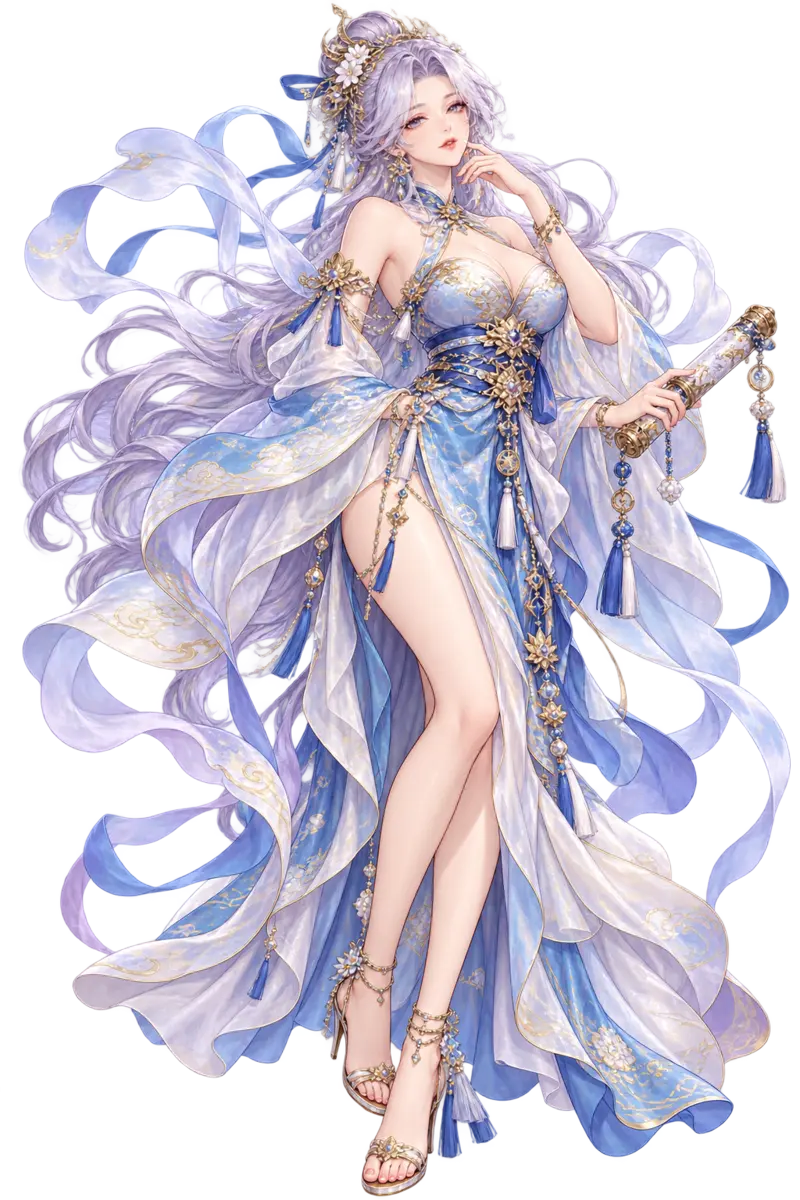
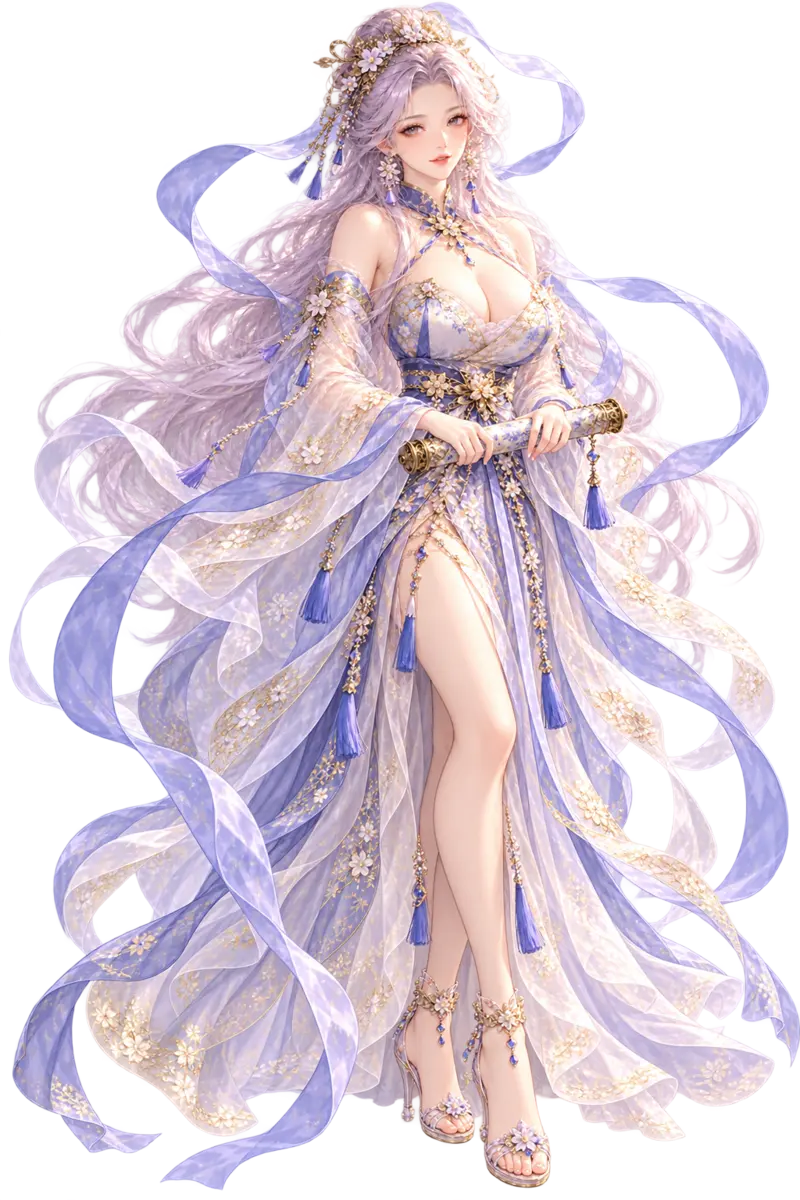
art: 청연·월하 전신을 새 화풍으로(14명 모두 완료), 인연 장면 닫기, README 갱신
- 청연·월하 전신 추가로 식객 14명 전신이 모두 카드와 같은 화풍
- 인연 장면을 보다가 닫을 수 있게(다 본 것으로는 치지 않음)
- 이야기 그림 일부 추가(무영이 붙잡는 장면, 산채 문 앞, 창고 밤샘, 계약서·갈대, 흑운채 산채 배경)
- README의 토벌 설명과 제목을 지금 게임에 맞게

Claude-Session: https://claude.ai/code/session_01AG3ixGBdGKPAAzXvjh6L4F

diff --git a/src/ui/modals.tsx b/src/ui/modals.tsx
@@ -277,7 +277,7 @@ export function SceneViewer({ id, level, onClose }: { id: string; level: number;
       onClose();
     }
   };
-  return <NovelFrame title={`${name} · ${level}. ${scene.title}`} bg={level===3||level===5?ART.cg(id,level):ART.bg('night')} cast={level===3||level===5?[]:[id]} line={{who:line.who==='her'?id:line.who,text:line.text}} onNext={next} />;
+  return <NovelFrame title={`${name} · ${level}. ${scene.title}`} bg={level===3||level===5?ART.cg(id,level):ART.bg('night')} cast={level===3||level===5?[]:[id]} line={{who:line.who==='her'?id:line.who,text:line.text}} onNext={next} onClose={onClose} />;
 }
 
 export function ComboModal({ combo, onClose }: { combo: ComboDef; onClose: () => void }) {

diff --git a/README.md b/README.md
@@ -1,6 +1,6 @@
-# 왕도 — 해랑국 이야기
+# 왕도 — 빚 받으러 왕까지
 
-조선풍 판타지 궁중 권력 드라마 육성 게임. 산골 나무꾼이 도깨비 방망이를 주워 구미호·도깨비·선녀 같은 요괴 아가씨들을 식객으로 거느리고, 권세가 가문과 요괴 세력을 누르며 왕좌에 오른다. 왕이 된 뒤에도 이야기는 부 단위로 계속 이어진다.
+조선풍 판타지 방치형 육성 게임. 떼인 빚을 받아내는 도깨비 방망이를 주운 나무꾼(1인칭 "나")이 구미호·도깨비·우렁각시 같은 요괴 식객들과 함께 권세가의 장부를 뒤집으며 해랑국의 왕좌까지 오른다. 이야기는 부 단위로 이어진다.
 
 **플레이:** https://bn8624.github.io/wangdo/ (휴대폰 브라우저 권장)
 
@@ -9,7 +9,7 @@
 - **일터**: 저잣거리(지략→엽전)·훈련장(무력→엽전)·논밭(정치→곡식)·주막(매력→명성)에 식객을 보내 자동 수입.
 - **정무**: 관아에 올라온 상소를 판결해 보상을 받는다.
 - **인연**: 대화·선물·나들이·연회로 호감도 5단계, 단계마다 개인 이야기와 특별 그림.
-- **토벌**: 식객 셋을 세 판(무력·지략·정치·매력)에 배치해 두 판을 이기면 승리.
+- **토벌**: 식객 셋이 자동으로 싸우는 라운드제 전투. 10라운드 안에 상대를 쓰러뜨리면 해결. 식객마다 고유 기술(강타·기절·방어·치유·약화·격려)이 있고, 추천 편성은 기술 조합까지 계산한다. 대치 구도와 말풍선 대사로 재생되며 2배속·건너뛰기가 있다.
 
 설계: `docs/DESIGN.md` · 설정집: `docs/STORY_BIBLE.md`
 
@@ -25,7 +25,9 @@ npm run simulate   # 플레이 성향별 칭호·소동 진행 시점 표
 
 - 게임 규칙: `src/core/engine.ts` (순수 함수, 시간은 인자로 받음)
 - 밸런스 수치: `src/data/balance.ts`, `src/data/ranks.ts` — 바꾼 뒤 `npm run simulate`와 `npm test`로 확인
-- 내용: 식객 `src/data/yokai.ts`, 소원 `src/data/wishes.ts`, 소동 `src/data/stages.ts`
+- 전투: `src/core/battle.ts`(순수 함수, 전투 기록을 만든다) · 화면 `src/ui/BattleView.tsx` · 기술 `src/data/skills.ts` · 대사 `src/data/battle-lines.ts`
+- 내용: 식객 `content/heroines.json`, 인연 `content/bonds/`, 정무 `src/data/wishes.ts`, 토벌 `src/data/stages.ts`
+- 그림 기준: `docs/CHARACTER_GUIDE.md`
 - 화면: `src/ui/`
 
 ## 그림
